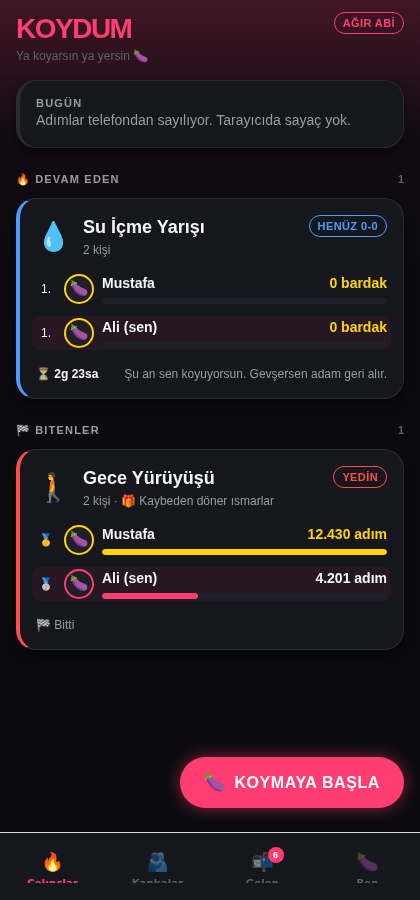
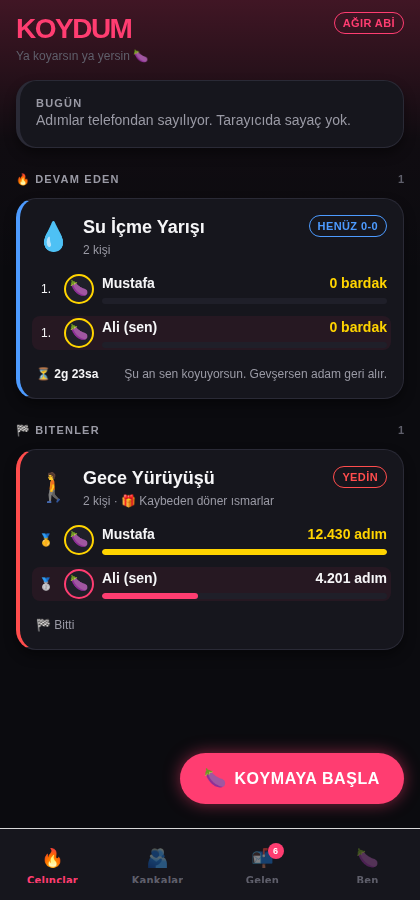
Let the tab bar clear the phone's gesture area
The bar hardcoded its bottom padding per platform — 26 on iOS, 10 everywhere
else — which cannot know what any particular phone puts below it. On a modern
Android with gesture navigation the pill drew straight over the labels and
"Çelınclar" lost its bottom half; the smoke screenshots showed it too.

It now sizes itself from the real safe-area inset, with 10 as the floor for a
phone that reports none, and the label carries a line height instead of
inheriting one.

Claude-Session: https://claude.ai/code/session_015iimKQS6D2Kfci6KFHTq5E

diff --git a/apps/mobile/src/app/(app)/(tabs)/_layout.tsx b/apps/mobile/src/app/(app)/(tabs)/_layout.tsx
@@ -1,5 +1,6 @@
 import { Tabs } from 'expo-router/js-tabs';
-import { Platform, StyleSheet, View } from 'react-native';
+import { StyleSheet, View } from 'react-native';
+import { useSafeAreaInsets } from 'react-native-safe-area-context';
 
 import { Text } from '@/components/Text';
 import { useUnread } from '@/hooks/queries';
@@ -22,6 +23,14 @@ const LABELS: Record<string, string> = {
 export default function TabsLayout() {
   const unread = useUnread();
   const unreadCount = unread.data?.count ?? 0;
+  /**
+   * The bar has to clear whatever the phone puts below it — the iPhone home
+   * indicator, an Android gesture pill — or the system draws over the labels
+   * and "Çelınclar" loses its bottom half. A hardcoded per-platform padding
+   * cannot know that; the inset does.
+   */
+  const insets = useSafeAreaInsets();
+  const bottomInset = Math.max(insets.bottom, 10);
 
   return (
     <Tabs
@@ -29,7 +38,10 @@ export default function TabsLayout() {
         headerShown: false,
         tabBarActiveTintColor: Colors.accent,
         tabBarInactiveTintColor: Colors.textFaint,
-        tabBarStyle: styles.bar,
+        tabBarStyle: [
+          styles.bar,
+          { height: Layout.tabBarHeight + bottomInset, paddingBottom: bottomInset },
+        ],
         tabBarItemStyle: styles.item,
         tabBarLabelStyle: styles.label,
         tabBarLabel: LABELS[route.name] ?? route.name,
@@ -59,12 +71,10 @@ const styles = StyleSheet.create({
     backgroundColor: Colors.surface,
     borderTopColor: Colors.border,
     borderTopWidth: 1,
-    height: Layout.tabBarHeight + (Platform.OS === 'ios' ? 24 : 6),
     paddingTop: 8,
-    paddingBottom: Platform.OS === 'ios' ? 26 : 10,
   },
   item: { paddingVertical: 2 },
-  label: { fontSize: 10, fontWeight: FontWeight.bold, letterSpacing: 0.2, marginTop: 2 },
+  label: { fontSize: 10, lineHeight: 14, fontWeight: FontWeight.bold, letterSpacing: 0.2, marginTop: 2 },
   iconWrap: { width: 30, height: 22, alignItems: 'center', justifyContent: 'center' },
   icon: { fontSize: 18, lineHeight: 22 },
   iconDim: { opacity: 0.45 },
